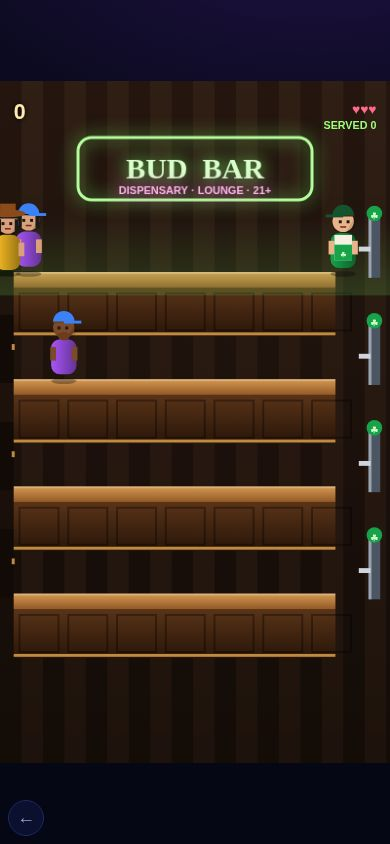
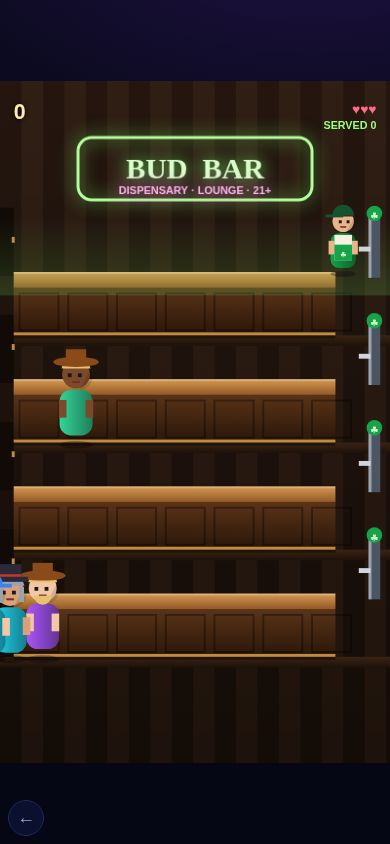
games-lib: Bud Bar customers walk in front of the counters (reference layout); e2e + bug pass PASS

diff --git a/public/games-lib/bud-bar/game.js b/public/games-lib/bud-bar/game.js
@@ -13,7 +13,7 @@ Kit.run({ id: 'gl-bud-bar', title: 'BUD BAR', help: 'Tap a counter (or Up/Down +
   },
   draw(g, c) { c.drawImage(room(g.W, g.H), 0, 0); const LY = (i) => 200 + i * 110;
     for (let i = 0; i < 4; i++) { const y = LY(i); if (i === g.lane) { const gl = c.createLinearGradient(0, y - 60, 0, y + 20); gl.addColorStop(0, 'rgba(125,255,106,0)'); gl.addColorStop(1, 'rgba(125,255,106,.16)'); c.fillStyle = gl; c.fillRect(0, y - 60, g.W, 80); } }
-    for (const k of g.cust) person(c, k.x, LY(k.lane), k, g.t, false);
+    for (const k of g.cust) { c.save(); c.translate(k.x, LY(k.lane) + 66); c.scale(1.3, 1.3); person(c, 0, 0, k, g.t, false); c.restore(); } // customers walk on the floor in front of the counter
     for (const b of g.bags) jar(c, b.x, LY(b.lane) - 2, false, g.t);
     for (const e of g.empties) jar(c, e.x, LY(e.lane) - 2, true, g.t);
     const y = LY(g.lane); person(c, 352, y, { c: '#16a34a', hat: 2, hair: '#3b2414', skin: '#e8b48a', seed: 7 }, g.t, true);
@@ -31,7 +31,7 @@ let ROOM = null; function room(W, H) { if (ROOM) return ROOM; const cv = documen
     // counter
     const top = c.createLinearGradient(0, y - 4, 0, y + 14); top.addColorStop(0, '#d79a52'); top.addColorStop(1, '#8a5222'); c.fillStyle = top; c.fillRect(14, y - 4, 330, 16); c.fillStyle = 'rgba(255,255,255,.25)'; c.fillRect(14, y - 4, 330, 2);
     const front = c.createLinearGradient(0, y + 12, 0, y + 62); front.addColorStop(0, '#5a3418'); front.addColorStop(1, '#2a160a'); c.fillStyle = front; c.fillRect(14, y + 12, 330, 50); c.strokeStyle = 'rgba(0,0,0,.35)'; c.lineWidth = 2; for (let x = 40; x < 344; x += 50) { c.strokeRect(x - 20, y + 18, 40, 38); }
-    c.fillStyle = '#c08a40'; c.fillRect(14, y + 58, 330, 3); }
+    c.fillStyle = '#c08a40'; c.fillRect(14, y + 58, 330, 3); const fl = c.createLinearGradient(0, y + 61, 0, y + 72); fl.addColorStop(0, '#3a2414'); fl.addColorStop(1, '#1e120a'); c.fillStyle = fl; c.fillRect(0, y + 61, W, 11); c.fillStyle = 'rgba(0,0,0,.4)'; c.fillRect(14, y + 61, 330, 3); }
   return (ROOM = cv); }
 function person(c, x, y, k, t, bt) { const sd = k.seed ?? (k.seed = Math.floor(Math.random() * 1e6)); const pick = (a, o) => a[(sd >> o) % a.length]; const skin = k.skin || pick(['#f2c7a5', '#d9a07a', '#a8714a', '#7a4a2a', '#f8d8bc'], 1); const hair = k.hair || pick(['#2a1a10', '#6b3e1a', '#e8c070', '#1a1a1a', '#b04a2a', '#9aa3ad'], 3); const hat = k.hat ?? sd % 4; const wobble = bt ? 0 : Math.sin(t * 9 + sd) * 2, step = bt ? 0 : Math.sin(t * 9 + sd);
   c.save(); c.translate(x, y - 6); c.fillStyle = 'rgba(0,0,0,.3)'; c.beginPath(); c.ellipse(0, 4, 13, 3, 0, 0, 7); c.fill();

diff --git a/docs/GAMES-LIB.md b/docs/GAMES-LIB.md
@@ -546,6 +546,7 @@ For each reference we searched GitHub (topics html5-game / javascript-game / pha
 
 ## Bud Bar (Tapper) - UPGRADED (2026-10-10 06:46 ET)
 - Source hunt (GitHub "tapper html5/javascript", js13k, itch.io, Gitee): no permissive Tapper remake above prototype level was found. Our 4-counter serve/empties rules are complete. Decision: art pass.
+- Customers walk on the floor in front of the counters (scaled up so heads show above the counter top), as in the reference; fixed $(date +%H:%M).
 - Art: wood-panelled lounge with a neon "BUD BAR - DISPENSARY - LOUNGE - 21+" sign, side doors, polished counters with panelled fronts and brass trim, chrome dispensers with leaf badges, a budtender in a green cap and apron, varied customers (skin, hair, beards, cap/top hat/cowboy hat, walk bob), glass product jars with a bud inside and glint, empty jars sliding back, lane glow, smash and serve particles.
 - Tests: e2e PASS (60 fps). Bug pass PASS (51 fps throttled). Rating: visual 7/10, feel 7/10.
 - Backlog note (polish pass): Neon Flipper ramps + spinner (requested 2026-10-10).
